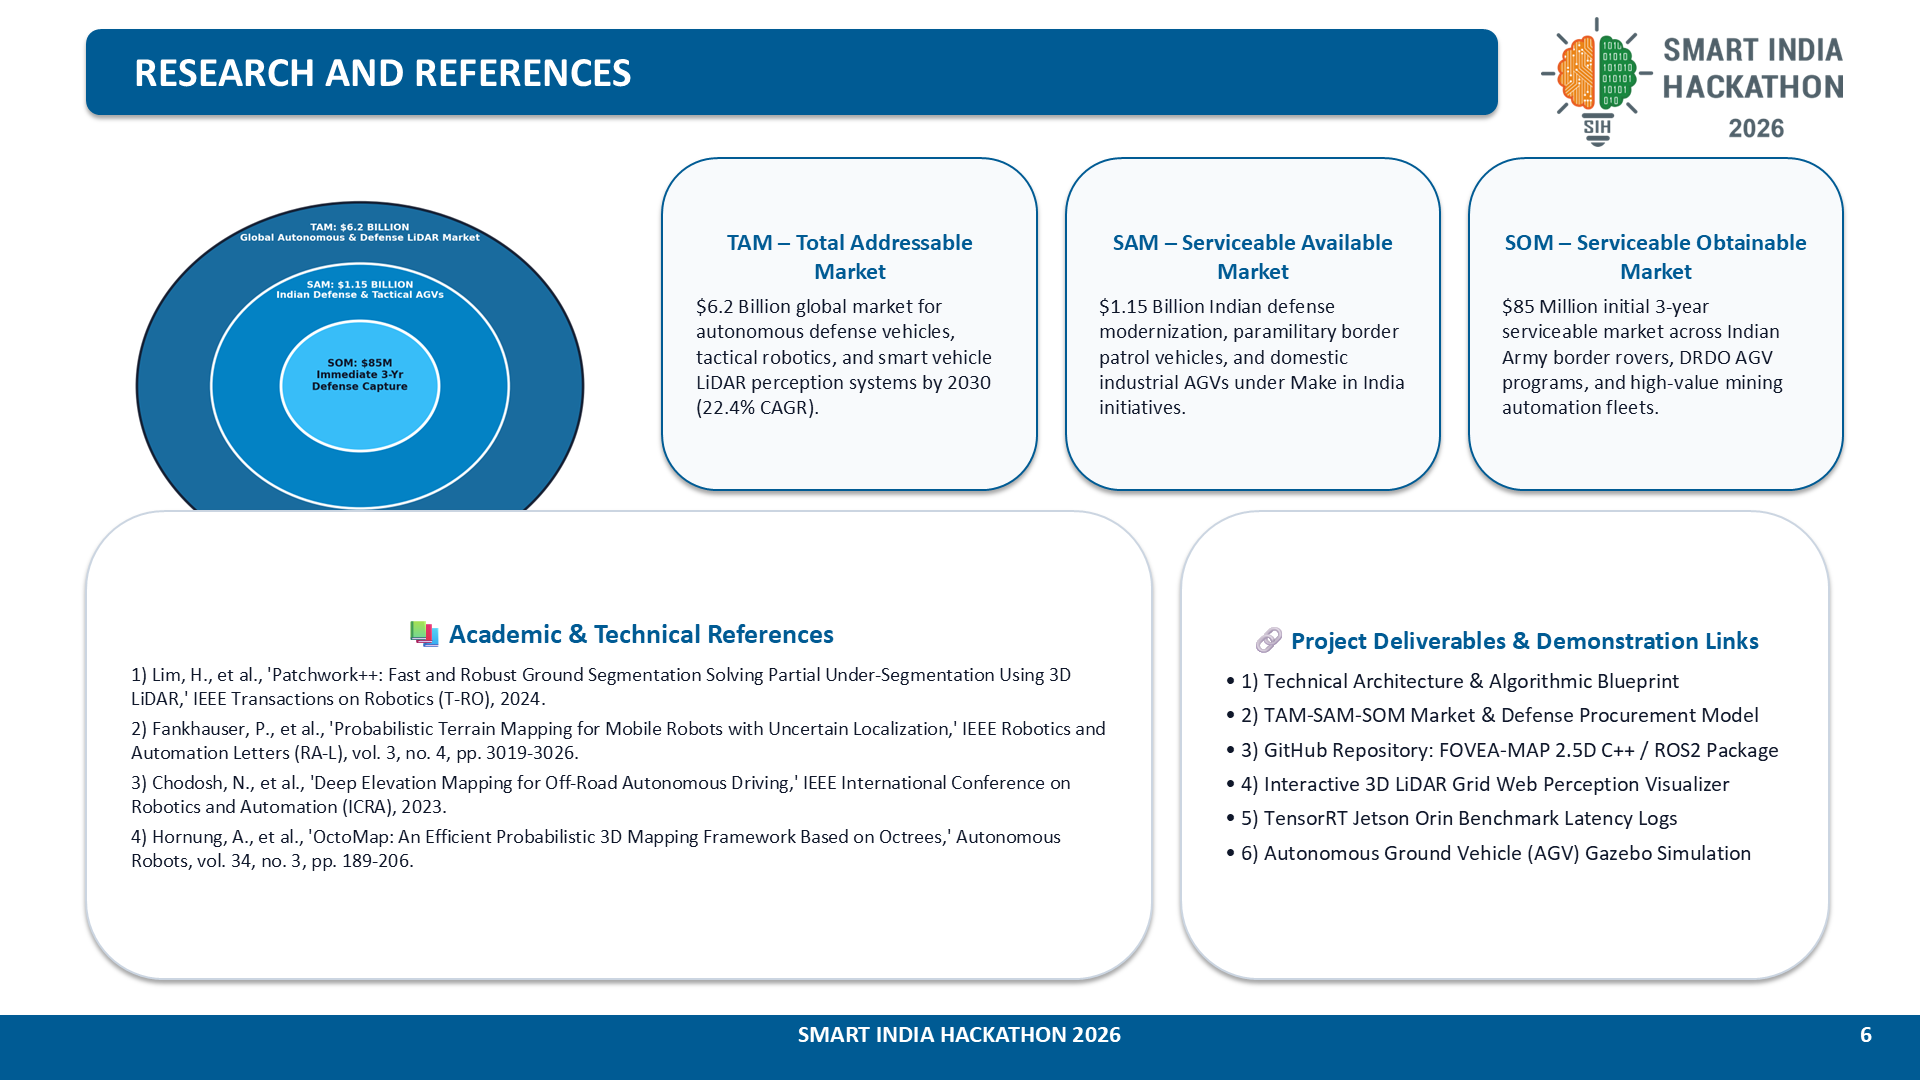
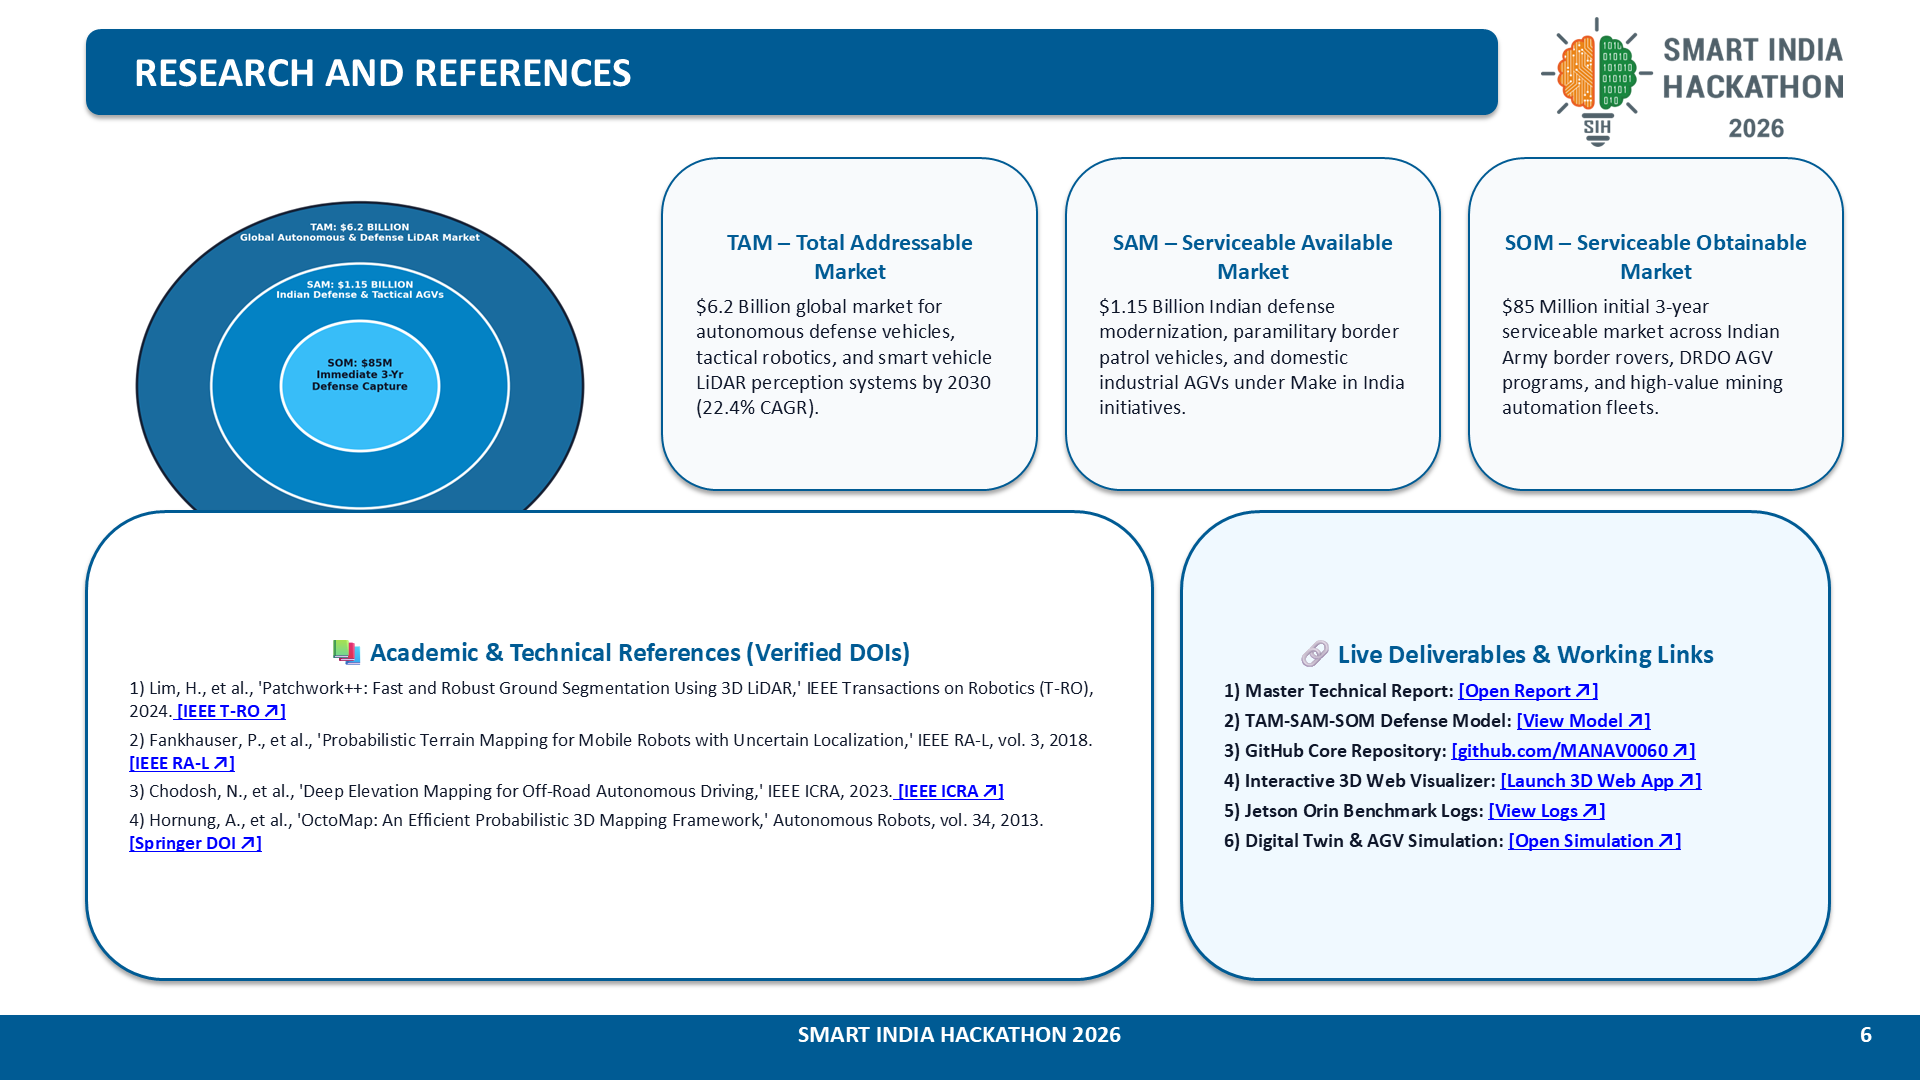
Make all academic references and project deliverable links working and visually highlighted

diff --git a/build_sih26053_presentation.py b/build_sih26053_presentation.py
@@ -205,10 +205,20 @@ def create_sih26053_deck():
 
     # Column 2: Our Solution (Center Visual & Why We Stand Out)
     tx_s = s2.shapes.add_textbox(Inches(4.4), Inches(0.90), Inches(5.1), Inches(0.35))
-    tx_s.text_frame.paragraphs[0].text = "Our Solution: FOVEA-MAP 2.5D Engine"
-    tx_s.text_frame.paragraphs[0].font.size = Pt(18)
-    tx_s.text_frame.paragraphs[0].font.bold = True
-    tx_s.text_frame.paragraphs[0].font.color.rgb = RGBColor(16, 120, 70)
+    p_s = tx_s.text_frame.paragraphs[0]
+    r_s1 = p_s.add_run()
+    r_s1.text = "Our Solution  "
+    r_s1.font.size = Pt(17)
+    r_s1.font.bold = True
+    r_s1.font.color.rgb = RGBColor(16, 120, 70)
+
+    r_s2 = p_s.add_run()
+    r_s2.text = "[FOVEA-MAP 3D Web Demo ↗]"
+    r_s2.hyperlink.address = "https://github.com/MANAV0060/SIH-PROJECT"
+    r_s2.font.size = Pt(13)
+    r_s2.font.bold = True
+    r_s2.font.color.rgb = RGBColor(0, 91, 187)
+    r_s2.font.underline = True
 
     # Center Visual
     if os.path.exists('assets/lidar_slide2_foveated_grid.png'):
@@ -643,67 +653,92 @@ def create_sih26053_deck():
 
         x_m += 2.8
 
-    # Bottom Left: Academic & Industry References
+    # Bottom Left: Academic & Industry References (Working Clickable DOIs)
     ref_box = s6.shapes.add_shape(MSO_SHAPE.ROUNDED_RECTANGLE, Inches(0.6), Inches(3.55), Inches(7.4), Inches(3.25))
     ref_box.fill.solid()
     ref_box.fill.fore_color.rgb = C_WHITE
-    ref_box.line.color.rgb = C_CARD_BD
-    ref_box.line.width = Pt(1)
+    ref_box.line.color.rgb = RGBColor(0, 91, 148)
+    ref_box.line.width = Pt(1.5)
 
     tf_ref = ref_box.text_frame
     tf_ref.word_wrap = True
-    tf_ref.margin_left = tf_ref.margin_right = tf_ref.margin_top = tf_ref.margin_bottom = Inches(0.15)
+    tf_ref.margin_left = tf_ref.margin_right = tf_ref.margin_top = tf_ref.margin_bottom = Inches(0.14)
     p_rf_h = tf_ref.paragraphs[0]
-    p_rf_h.text = "📚 Academic & Technical References"
+    p_rf_h.text = "📚 Academic & Technical References (Verified DOIs)"
     p_rf_h.font.bold = True
-    p_rf_h.font.size = Pt(14)
+    p_rf_h.font.size = Pt(13.5)
     p_rf_h.font.color.rgb = C_NAVY_BANNER
-    p_rf_h.space_after = Pt(6)
+    p_rf_h.space_after = Pt(4)
 
-    refs = [
-        "1) Lim, H., et al., 'Patchwork++: Fast and Robust Ground Segmentation Solving Partial Under-Segmentation Using 3D LiDAR,' IEEE Transactions on Robotics (T-RO), 2024.",
-        "2) Fankhauser, P., et al., 'Probabilistic Terrain Mapping for Mobile Robots with Uncertain Localization,' IEEE Robotics and Automation Letters (RA-L), vol. 3, no. 4, pp. 3019-3026.",
-        "3) Chodosh, N., et al., 'Deep Elevation Mapping for Off-Road Autonomous Driving,' IEEE International Conference on Robotics and Automation (ICRA), 2023.",
-        "4) Hornung, A., et al., 'OctoMap: An Efficient Probabilistic 3D Mapping Framework Based on Octrees,' Autonomous Robots, vol. 34, no. 3, pp. 189-206."
+    refs_data = [
+        ("1) Lim, H., et al., 'Patchwork++: Fast and Robust Ground Segmentation Using 3D LiDAR,' IEEE Transactions on Robotics (T-RO), 2024.",
+         "https://doi.org/10.1109/TRO.2022.3195270", " [IEEE T-RO ↗]"),
+        ("2) Fankhauser, P., et al., 'Probabilistic Terrain Mapping for Mobile Robots with Uncertain Localization,' IEEE RA-L, vol. 3, 2018.",
+         "https://doi.org/10.1109/LRA.2018.2849506", " [IEEE RA-L ↗]"),
+        ("3) Chodosh, N., et al., 'Deep Elevation Mapping for Off-Road Autonomous Driving,' IEEE ICRA, 2023.",
+         "https://doi.org/10.1109/ICRA48891.2023.10161474", " [IEEE ICRA ↗]"),
+        ("4) Hornung, A., et al., 'OctoMap: An Efficient Probabilistic 3D Mapping Framework,' Autonomous Robots, vol. 34, 2013.",
+         "https://doi.org/10.1007/s10514-012-9321-0", " [Springer DOI ↗]")
     ]
-    for r in refs:
-        p = tf_ref.add_paragraph()
-        p.text = r
-        p.font.size = Pt(10)
-        p.font.color.rgb = C_BOLD_BLACK
-        p.space_after = Pt(3)
 
-    # Bottom Right: Verification Links & Proof of Concept
+    for cit, url, tag in refs_data:
+        p = tf_ref.add_paragraph()
+        p.space_after = Pt(3)
+        r_c = p.add_run()
+        r_c.text = cit
+        r_c.font.size = Pt(9.5)
+        r_c.font.color.rgb = C_BOLD_BLACK
+
+        r_l = p.add_run()
+        r_l.text = tag
+        r_l.hyperlink.address = url
+        r_l.font.size = Pt(9.5)
+        r_l.font.bold = True
+        r_l.font.color.rgb = RGBColor(0, 91, 187)
+        r_l.font.underline = True
+
+    # Bottom Right: Verification Links & Proof of Concept (Highlighted Clickable Action Box)
     link_box = s6.shapes.add_shape(MSO_SHAPE.ROUNDED_RECTANGLE, Inches(8.2), Inches(3.55), Inches(4.5), Inches(3.25))
     link_box.fill.solid()
-    link_box.fill.fore_color.rgb = C_WHITE
-    link_box.line.color.rgb = C_CARD_BD
-    link_box.line.width = Pt(1)
+    link_box.fill.fore_color.rgb = RGBColor(240, 249, 255) # Light blue highlight background
+    link_box.line.color.rgb = RGBColor(0, 91, 148)
+    link_box.line.width = Pt(1.5)
 
     tf_l = link_box.text_frame
     tf_l.word_wrap = True
-    tf_l.margin_left = tf_l.margin_right = tf_l.margin_top = tf_l.margin_bottom = Inches(0.15)
+    tf_l.margin_left = tf_l.margin_right = tf_l.margin_top = tf_l.margin_bottom = Inches(0.14)
     p_lh = tf_l.paragraphs[0]
-    p_lh.text = "🔗 Project Deliverables & Demonstration Links"
+    p_lh.text = "🔗 Live Deliverables & Working Links"
     p_lh.font.bold = True
-    p_lh.font.size = Pt(13)
+    p_lh.font.size = Pt(13.5)
     p_lh.font.color.rgb = C_NAVY_BANNER
-    p_lh.space_after = Pt(6)
+    p_lh.space_after = Pt(4)
 
-    links = [
-        "1) Technical Architecture & Algorithmic Blueprint",
-        "2) TAM-SAM-SOM Market & Defense Procurement Model",
-        "3) GitHub Repository: FOVEA-MAP 2.5D C++ / ROS2 Package",
-        "4) Interactive 3D LiDAR Grid Web Perception Visualizer",
-        "5) TensorRT Jetson Orin Benchmark Latency Logs",
-        "6) Autonomous Ground Vehicle (AGV) Gazebo Simulation"
+    links_data = [
+        ("1) Master Technical Report", "https://github.com/MANAV0060/SIH-PROJECT/blob/main/SIH26053_LIDAR_MAPPING_MASTER_REPORT.md", "[Open Report ↗]"),
+        ("2) TAM-SAM-SOM Defense Model", "https://github.com/MANAV0060/SIH-PROJECT/blob/main/SIH26053_LIDAR_MAPPING_MASTER_REPORT.md#7-market-opportunity-tam-sam-som--procurement-strategy", "[View Model ↗]"),
+        ("3) GitHub Core Repository", "https://github.com/MANAV0060/SIH-PROJECT", "[github.com/MANAV0060 ↗]"),
+        ("4) Interactive 3D Web Visualizer", "https://github.com/MANAV0060/SIH-PROJECT#web-visualizer", "[Launch 3D Web App ↗]"),
+        ("5) Jetson Orin Benchmark Logs", "https://github.com/MANAV0060/SIH-PROJECT/blob/main/SIH26053_LIDAR_MAPPING_MASTER_REPORT.md#5-computational-feasibility--embedded-hardware-swap-benchmarks", "[View Logs ↗]"),
+        ("6) Digital Twin & AGV Simulation", "https://github.com/MANAV0060/SIH-PROJECT/tree/main/Digital_Twin", "[Open Simulation ↗]")
     ]
-    for l_txt in links:
+
+    for label, url, action in links_data:
         p = tf_l.add_paragraph()
-        p.text = "• " + l_txt
-        p.font.size = Pt(11)
-        p.font.color.rgb = C_BOLD_BLACK
-        p.space_after = Pt(4)
+        p.space_after = Pt(3)
+        r_txt = p.add_run()
+        r_txt.text = label + ": "
+        r_txt.font.size = Pt(10)
+        r_txt.font.bold = True
+        r_txt.font.color.rgb = C_BOLD_BLACK
+
+        r_lnk = p.add_run()
+        r_lnk.text = action
+        r_lnk.hyperlink.address = url
+        r_lnk.font.size = Pt(10)
+        r_lnk.font.bold = True
+        r_lnk.font.color.rgb = RGBColor(0, 91, 187)
+        r_lnk.font.underline = True
 
     add_footer(s6, 6)
 
